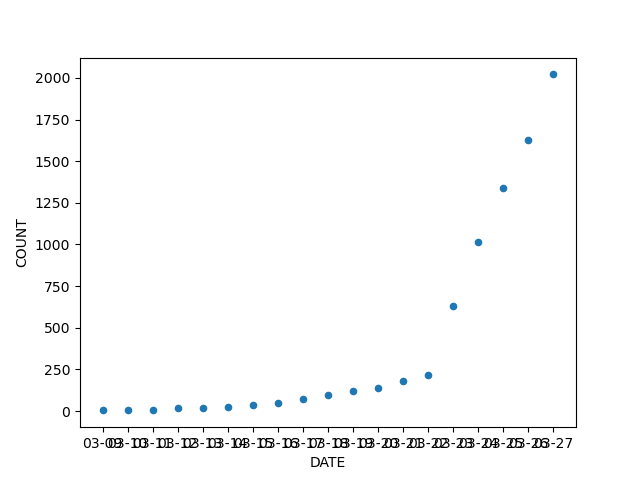
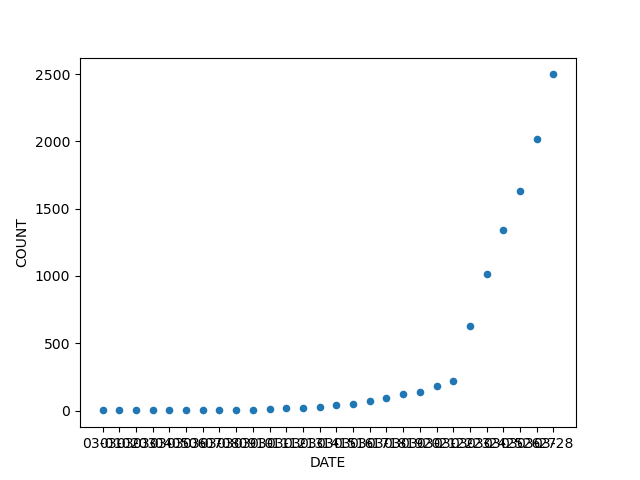
03/28, more data

diff --git a/covid-19/getcount.py b/covid-19/getcount.py
@@ -76,8 +76,9 @@ plt.savefig('covid-19.png')
 
 # make graph of active cases (in progress)
 for x in range(len(death.index)) :
-    df.at[x+11,'COUNT'] -= death.at[x,'COUNT']
-    df.at[x+11,'COUNT'] -= recovered.at[x,'COUNT']
+    df.at[x+19,'COUNT'] -= death.at[x,'COUNT']
+    df.at[x+19,'COUNT'] -= recovered.at[x,'COUNT']
+
 
 df.plot.scatter(x='DATE',y='COUNT')
 plt.savefig('covid-19-active.png')

diff --git a/covid-19/README.md b/covid-19/README.md
@@ -1,5 +1,9 @@
 # COVID-19 Quebec
-Collection of cases from the [Quebec government site](https://www.quebec.ca/sante/problemes-de-sante/a-z/coronavirus-2019/situation-coronavirus-quebec/), French version. (Note: English version is not updated as frequently.)
+Collection of cases from the [Quebec government site](https://www.quebec.ca/sante/problemes-de-sante/a-z/coronavirus-2019/situation-coronavirus-quebec/), French version. 
+
+03-01 - 03-09 : from [Canada government site](https://www.canada.ca/en/public-health/services/diseases/2019-novel-coronavirus-infection.html#a1)
+
+03-09 - 03-14 : from CTV and Global News
 
 ## Graphs
 ### Quebec Cases
@@ -14,3 +18,4 @@ Collection of cases from the [Quebec government site](https://www.quebec.ca/sant
 03/23 : The significant increase in confirmed cases is explained by the fact that on March 22, 2020, cases tested positive by hospital laboratories are now considered confirmed. They no longer need validation by the Laboratoire de santé publique du Québec (LSPQ).
 
 03/26 : The linear increase in recent dates likely attributes to the limited testing conducted per day. - Note by me (not authority)
+
